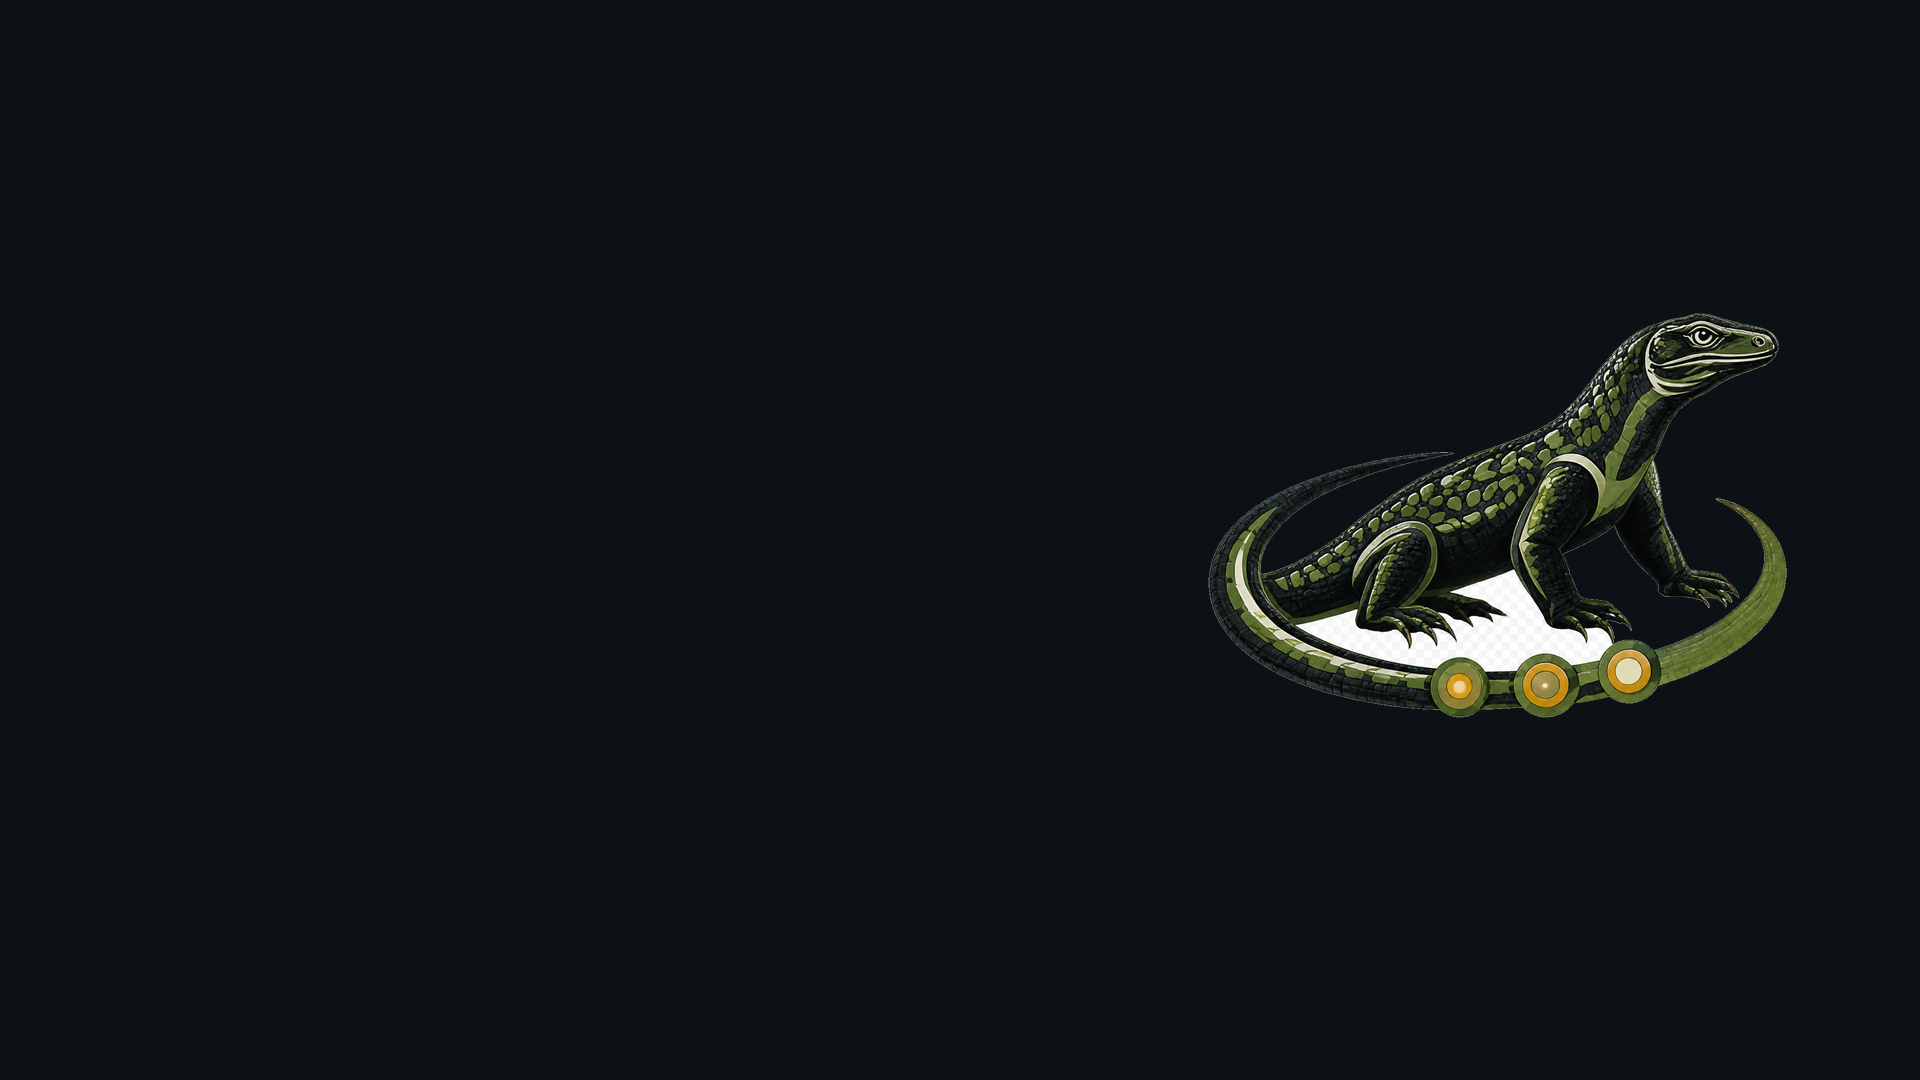
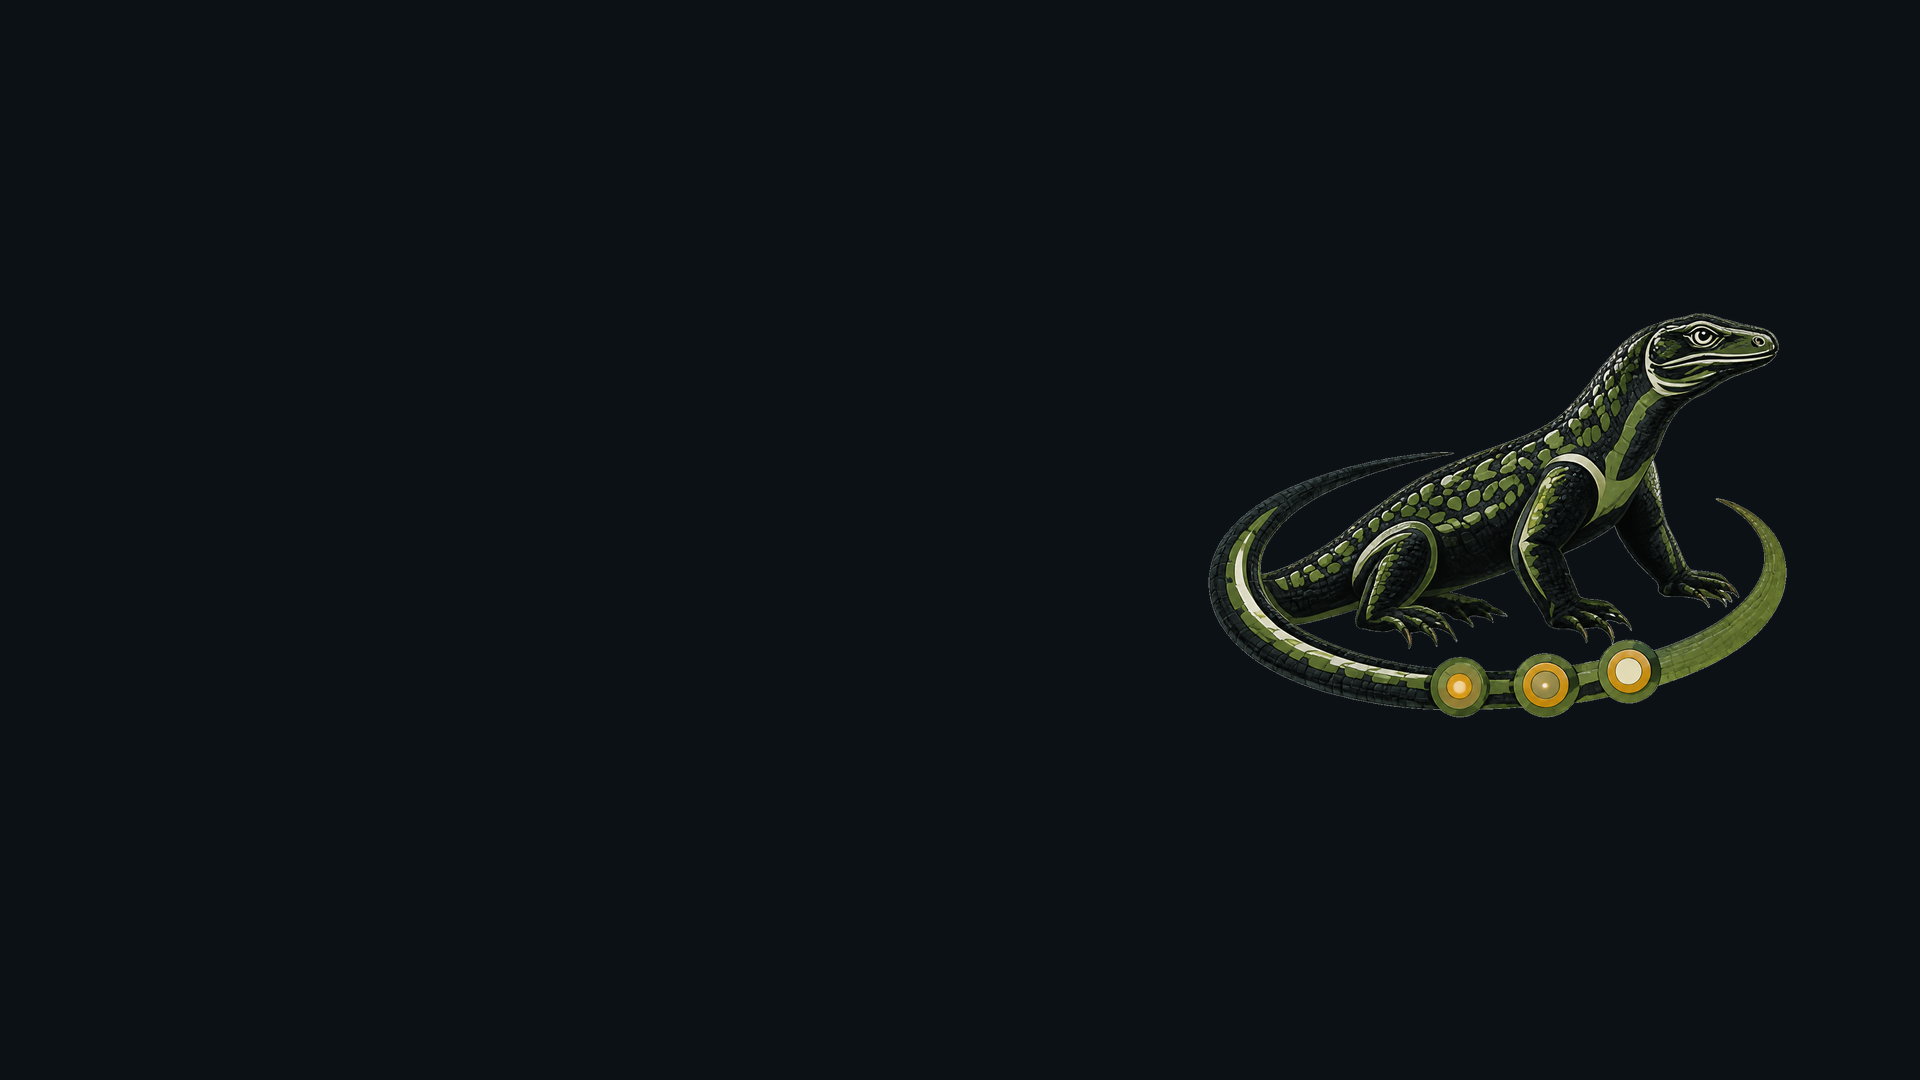
Correct transparency in full PenSUSE mark

Changed region(s): [[0.6875, 0.5194, 0.8438, 0.6417]]

diff --git a/branding/tools/build-assets.py b/branding/tools/build-assets.py
@@ -1,15 +1,16 @@
 #!/usr/bin/env python3
 from pathlib import Path
 from PIL import Image, ImageDraw, ImageFont
-import subprocess, sys
+import os, shutil, subprocess, sys
 
 ROOT = Path(__file__).resolve().parents[1]
+FONT_DIR = Path(os.environ.get('PENSUSE_FONT_DIR', '/usr/share/fonts/truetype/dejavu'))
 FULL = Image.open(ROOT/'source/pensuse-master.png').convert('RGBA')
 HEAD = Image.open(ROOT/'source/pensuse-mark-master.png').convert('RGBA')
 BG = '#0B1114'; GRAPHITE = '#151A1D'; BONE = '#E8E6DD'; GREEN = '#657A3E'; LEAF = '#8EAD55'; AMBER = '#C68A2B'; SLATE = '#4A5358'
 
 def font(size, bold=False):
-    p = '/usr/share/fonts/truetype/dejavu/DejaVuSans-Bold.ttf' if bold else '/usr/share/fonts/truetype/dejavu/DejaVuSans.ttf'
+    p = FONT_DIR / ('DejaVuSans-Bold.ttf' if bold else 'DejaVuSans.ttf')
     return ImageFont.truetype(p, size)
 def contain(im, box):
     x, y, w, h = box; copy = im.copy(); copy.thumbnail((w, h), Image.Resampling.LANCZOS)
@@ -40,7 +41,11 @@ def main():
     for s in [16,22,24,32,48,64,128,256,512]: save(HEAD,f'desktop/pensuse-{s}.png',(s,s))
     save(HEAD,'web/favicon-16.png',(16,16)); save(HEAD,'web/favicon-32.png',(32,32)); save(HEAD,'web/favicon-48.png',(48,48)); save(HEAD,'web/apple-touch-icon.png',(180,180)); save(HEAD,'web/android-chrome-192.png',(192,192)); save(HEAD,'web/android-chrome-512.png',(512,512))
     save(darklogo,'web/github-social-1280x640.png',(1280,640),BG); save(darklogo,'web/social-card-1200x630.png',(1200,630),BG)
-    subprocess.run(['magick',str(ROOT/'web/favicon-16.png'),str(ROOT/'web/favicon-32.png'),str(ROOT/'web/favicon-48.png'),str(ROOT/'web/favicon.ico')],check=True)
+    magick = shutil.which('magick')
+    if magick:
+        subprocess.run([magick,str(ROOT/'web/favicon-16.png'),str(ROOT/'web/favicon-32.png'),str(ROOT/'web/favicon-48.png'),str(ROOT/'web/favicon.ico')],check=True)
+    elif not (ROOT/'web/favicon.ico').is_file():
+        raise RuntimeError('ImageMagick is required to create web/favicon.ico')
     ply=Image.new('RGBA',(1920,1080),BG); place(ply,HEAD,(700,120,520,520)); d=ImageDraw.Draw(ply); d.text((750,700),'PenSUSE',font=font(74,True),fill=BONE); d.text((753,790),'Security work with provenance.',font=font(24),fill=SLATE); save(ply,'os/plymouth/splash-1920x1080.png')
     save(HEAD,'os/plymouth/logo.png',(512,512)); save(HEAD,'os/grub/logo.png',(420,420))
     grub=Image.new('RGBA',(1920,1080),BG); place(grub,FULL,(1180,180,650,700)); save(grub,'os/grub/background-1920x1080.png')

diff --git a/branding/README.md b/branding/README.md
@@ -34,4 +34,4 @@ make validate     # structural, integrity, dimension, alpha, ASCII, ANSI checks
 make clean        # remove generated raster files
 ```
 
-The build uses local Python 3/Pillow and ImageMagick only; it performs no network downloads. Resizing uses Lanczos except for nearest-neighbour favicon review tiles. `preview.png` is a generated contact sheet containing the primary logo, compact mark, enlarged 16px/32px views, social card, Plymouth, GRUB, wallpaper, and terminal review samples. Inspect it before shipping.
+The build uses local Python 3/Pillow and ImageMagick only; it performs no network downloads. Set `PENSUSE_FONT_DIR` when DejaVu Sans is installed outside `/usr/share/fonts/truetype/dejavu`. ImageMagick is required to create `favicon.ico`; an existing validated ICO is preserved when ImageMagick is unavailable. Resizing uses Lanczos except for nearest-neighbour favicon review tiles. `preview.png` is a generated contact sheet containing the primary logo, compact mark, enlarged 16px/32px views, social card, Plymouth, GRUB, wallpaper, and terminal review samples. Inspect it before shipping.
